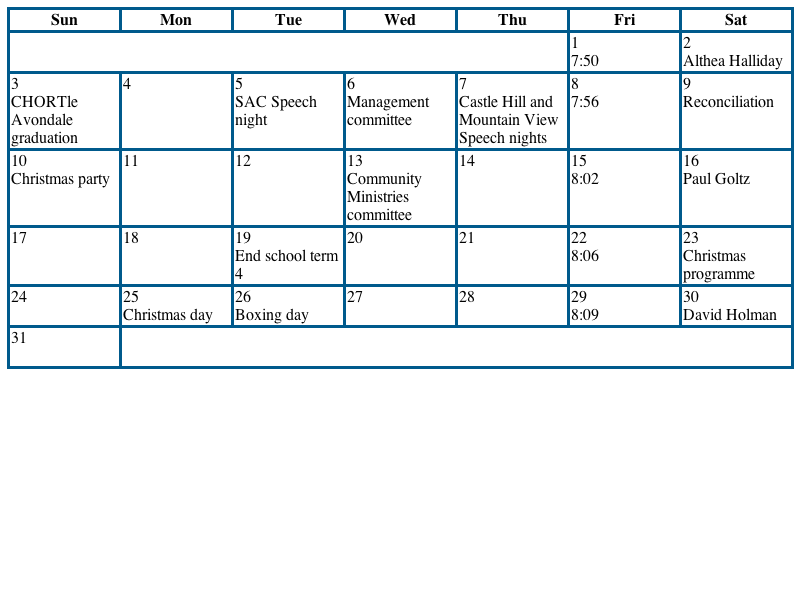
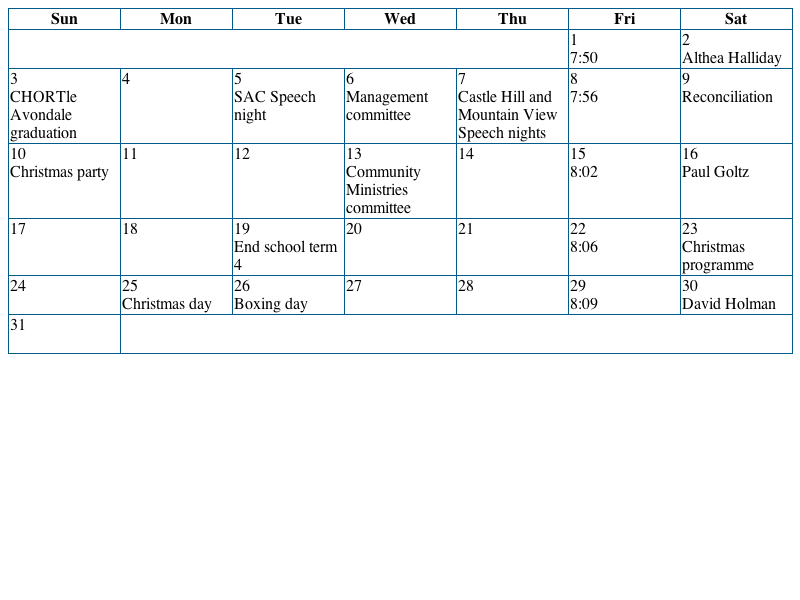
Reviewed by Adele
I added a close comment tag to this layout test so that the layout
        would not longer be affected by the unclosed <style> tag bug since
        that is not the original aim of this test anyway.

Identifier: 11362@main
git-svn-id: https://svn.webkit.org/repository/webkit/trunk@13403 268f45cc-cd09-0410-ab3c-d52691b4dbfc

Changed region(s): [[0.0, 0.0, 1.0, 0.63]]

diff --git a/LayoutTests/tables/mozilla/bugs/bug43854-2.html b/LayoutTests/tables/mozilla/bugs/bug43854-2.html
@@ -17,7 +17,7 @@ th,td
 td
 {
         vertical-align: top;
-}
+} -->
 </style>
 </head>
 <body>
